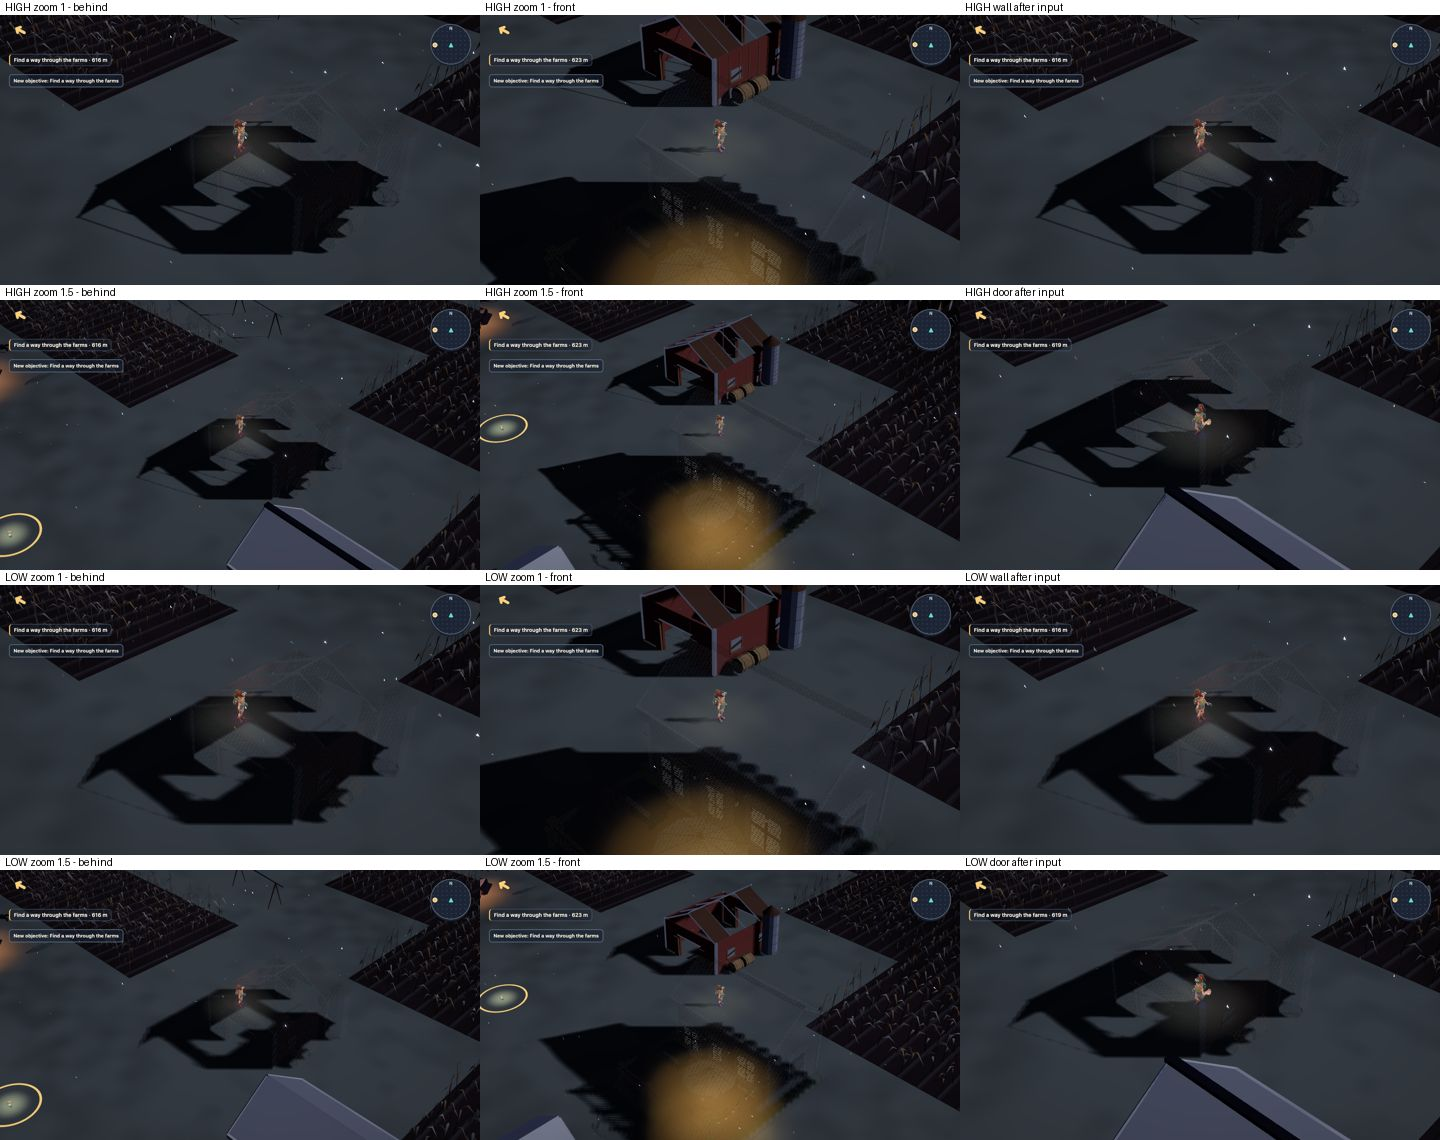
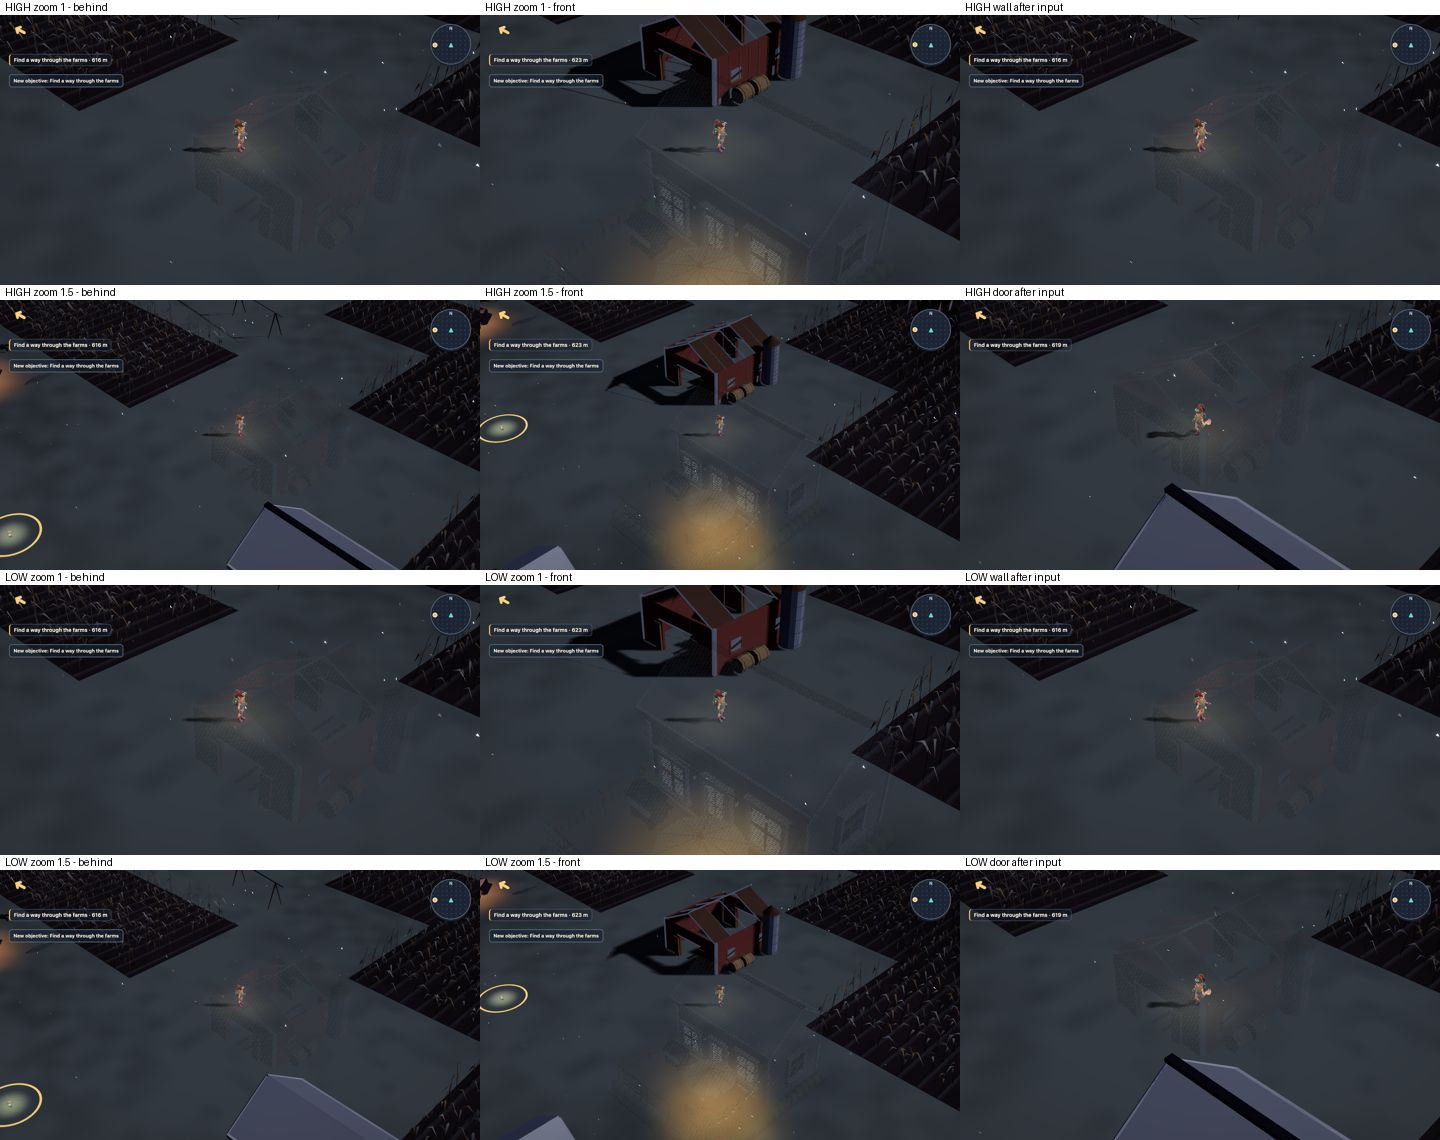
Refresh farm review after shadow fix

diff --git a/docs/reports/s236-l10solids/README.md b/docs/reports/s236-l10solids/README.md
@@ -28,7 +28,7 @@ Follow-up: L10 expands the reveal subject around nearby infected, shifting its c
 
 The same native wall position was subsequently captured HIGH and LOW at zoom 1 and 1.5 (`/private/tmp/s236-native-zoom/`). The inspected LOW frames and HIGH zoom 1.5 show the courier through the whole faded barn, with its dark ground shadow still present. Both LOW see-through fixtures also pass at zoom 0.5, 1, and 1.5 (`/private/tmp/s236-courier-ray-low/`). These captures use a fresh level and teleport, not the requested checkpoint; independent corgi-only occlusion still needs verification.
 
-[Farm fade sheet](farm-fade-sheet.jpg) compares the current native frames at HIGH and LOW, zoom 1 and 1.5, after restoring a triggered `cure-residential` snapshot with the farmstead objective active. Its right column also shows the wall and doorway positions after movement input. With the courier behind the shed, walls and roof fade together and she remains visible; in front, the red barn stays opaque. At this night lighting the 90% dither makes the barn very faint while its heavy ground shadow remains, so the visual softness remains a concern. The setup teleported to the river exit and residential region to trigger the checkpoint, then teleported to each approach; it is not the PO's saved snapshot.
+[Farm fade sheet](farm-fade-sheet.jpg) compares current native frames at HIGH and LOW, zoom 1 and 1.5, after restoring a triggered `cure-residential` snapshot with the farmstead objective active. Its right column shows the wall and doorway positions after movement input. With the courier behind the shed, walls and roof fade together and she remains visible; in front, the red barn stays opaque and casts its shadow. The selected shed's shadow clears, avoiding the dark slab; its 90% dither remains very faint at night. The setup teleported to the river exit and residential region to trigger the checkpoint, then teleported to each approach; it is not the PO's saved snapshot.
 
 The existing `tools/qa/l10-probe.ts` direct checkpoint load fails with `Unknown checkpoint: cure-residential`: its reconstruction advances objective completions rather than travelling through the region. The sheet instead uses a snapshot triggered by entering the residential region and then restored; it is not a reproduction of the reported saved checkpoint.
 
@@ -38,7 +38,7 @@ The same companion and non-occluder fixtures pass on LOW (`/private/tmp/s236-com
 
 An 85% uniform fade retained slightly more of the barn in a reviewed HIGH native frame, but failed the LOW companion fixture at zoom 1.5 (courier visibility 0.8 versus 0.85 required). The 90% fade was restored and that LOW row passes (`/private/tmp/s236-fade90-companion/`). The opaque shadow is rendered in a separate instanced shadow pass and remains a visual concern.
 
-The placement shadow pass now masks the selected whole-building instance; other instances retain their shadows. Reviewed HIGH native frames (`/private/tmp/s236-shadow-fade.png` and `s236-shadow-front.png`) show the black barn footprint removed while faded and retained while the barn is opaque. The shadow switches off rather than interpolating. Typecheck, lint, and the HIGH and LOW companion, behind-building and non-occluder fixtures pass. WebGPU and a performance comparison remain unverified; the report sheet predates this shadow change.
+The placement shadow pass now masks the selected whole-building instance; other instances retain their shadows. Reviewed HIGH and LOW native frames show the black barn footprint removed while faded and retained while the barn is opaque. The shadow switches off rather than interpolating. Typecheck, lint, and the HIGH and LOW companion, behind-building and non-occluder fixtures pass. WebGPU and a performance comparison remain unverified.
 
 These non-L10 findings remain for follow-up; the first five placements have no collider intersecting courier body height:
 
